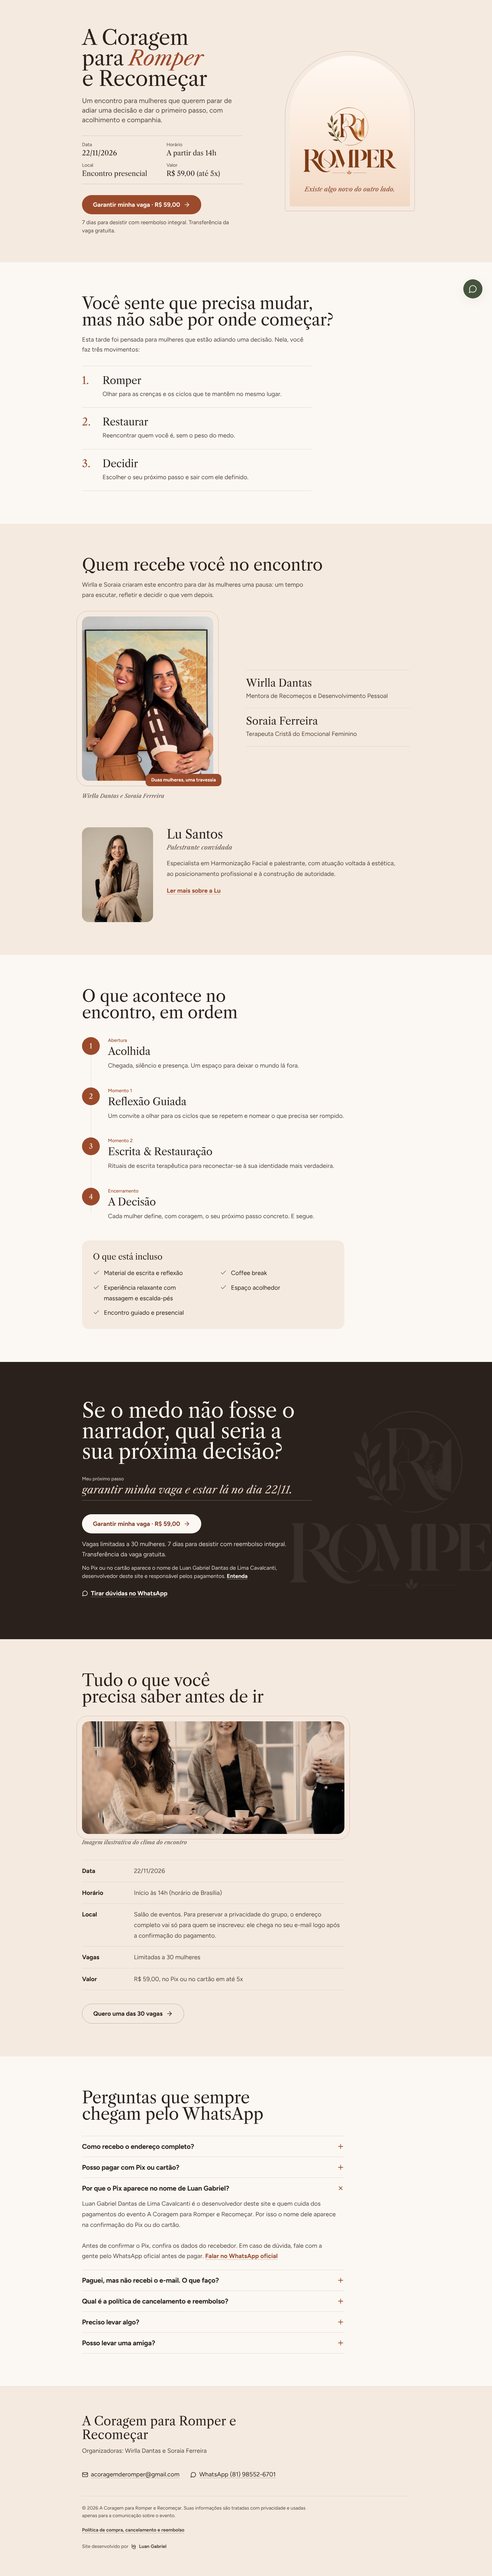
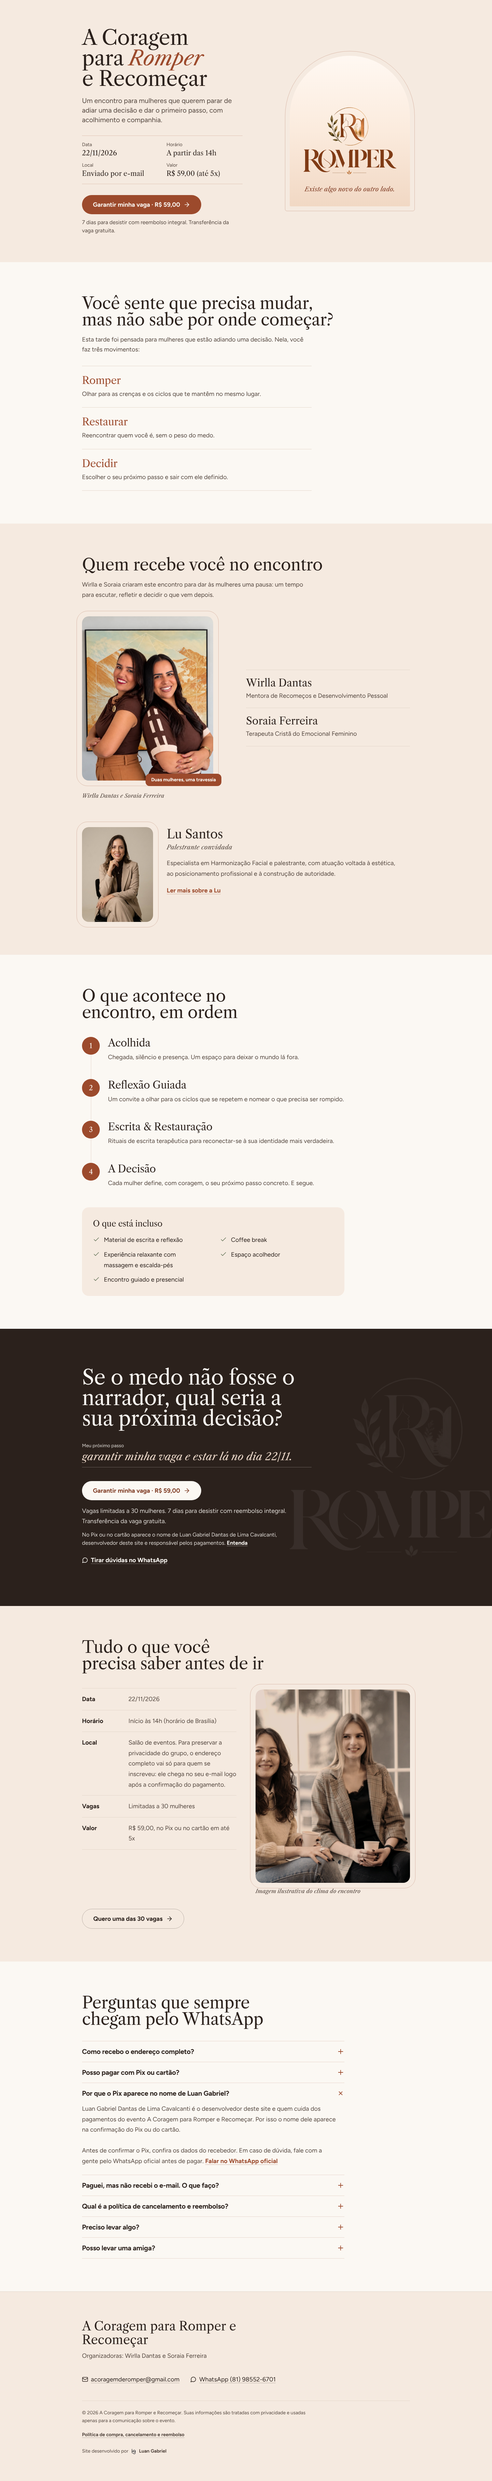
Ajustes da revisão final da landing page
- Remove os rótulos 'Momento 1/2' que conflitavam com a numeração da programação
- Botão flutuante do WhatsApp só aparece depois da abertura, sem cobrir a inscrição
- Local na abertura diz que o endereço vai por e-mail enquanto a cidade não é informada
- Placeholder do formulário com contraste suficiente
- 'Para quem é' sem numeração, para não competir com a programação
- Foto da Lu Santos com a mesma moldura das outras fotos
- Detalhes em duas colunas no desktop

Claude-Session: https://claude.ai/code/session_01J7WFRn7juCVtrvQuFSdBz2

diff --git a/src/sections/Details.tsx b/src/sections/Details.tsx
@@ -16,7 +16,8 @@ export function Details() {
 
   return (
     <Folha id="detalhes" tom="sand" titulo="Tudo o que você precisa saber antes de ir">
-      <figure className="mt-12 max-w-3xl">
+      <div className="mt-12 grid max-w-3xl gap-12 lg:max-w-none lg:grid-cols-[minmax(0,1fr)_minmax(0,1fr)] lg:items-start lg:gap-14">
+      <figure className="lg:order-2 lg:pt-1">
         <div className="moldura relative mx-2 sm:mx-0">
           <div className="tom-barro relative overflow-hidden rounded-[1.25rem]">
             <img
@@ -24,22 +25,22 @@ export function Details() {
               alt="Mulheres conversando com xícaras nas mãos, em clima de acolhimento"
               width={1800}
               height={1202}
-              className="foto-quente aspect-[16/10] w-full object-cover object-[55%_72%] sm:aspect-[21/9] sm:object-[55%_78%]"
+              className="foto-quente aspect-[16/10] w-full object-cover object-[55%_72%] sm:aspect-[21/9] sm:object-[55%_78%] lg:aspect-[4/5] lg:object-[45%_60%]"
               loading="lazy"
             />
           </div>
         </div>
         <figcaption className="mt-3 font-serif text-base italic text-coffee-soft">Imagem ilustrativa do clima do encontro</figcaption>
       </figure>
-
-      <dl className="mt-10 max-w-3xl border-t border-linha">
+      <dl className="border-t border-linha lg:order-1">
         {ficha.map((f) => (
-          <div key={f.rotulo} className="grid gap-1 border-b border-linha py-4 sm:grid-cols-[8rem_minmax(0,1fr)] sm:gap-6">
+          <div key={f.rotulo} className="grid gap-1 border-b border-linha py-4 sm:grid-cols-[7rem_minmax(0,1fr)] sm:gap-6">
             <dt className="font-bold text-coffee">{f.rotulo}</dt>
             <dd className="text-coffee-soft">{f.valor}</dd>
           </div>
         ))}
       </dl>
+      </div>
 
       <div className="mt-10">
         <CheckoutButton variant="secondary" className="w-full sm:w-auto">

diff --git a/src/components/WhatsAppFloat.tsx b/src/components/WhatsAppFloat.tsx
@@ -1,14 +1,33 @@
+import { useEffect, useState } from 'react';
 import { MessageCircle } from 'lucide-react';
 import { eventConfig } from '@/data/eventConfig';
 
+/** Botão flutuante do WhatsApp. Só aparece depois da abertura, para não cobrir o botão de inscrição. */
 export function WhatsAppFloat() {
+  const [visivel, setVisivel] = useState(false);
+
+  useEffect(() => {
+    const atualizar = () => setVisivel(window.scrollY > window.innerHeight * 0.85);
+    atualizar();
+    window.addEventListener('scroll', atualizar, { passive: true });
+    window.addEventListener('resize', atualizar);
+    return () => {
+      window.removeEventListener('scroll', atualizar);
+      window.removeEventListener('resize', atualizar);
+    };
+  }, []);
+
   return (
     <a
       href={eventConfig.whatsappLink}
       target="_blank"
       rel="noopener noreferrer"
       aria-label="Falar no WhatsApp"
-      className="fixed bottom-5 right-5 z-50 flex h-14 w-14 items-center justify-center rounded-full bg-olive-dark text-cream shadow-soft-lg transition-colors duration-200 ease-out hover:bg-coffee sm:bottom-7 sm:right-7"
+      aria-hidden={!visivel}
+      tabIndex={visivel ? 0 : -1}
+      className={`fixed bottom-5 right-5 z-50 flex h-14 w-14 items-center justify-center rounded-full bg-olive-dark text-cream shadow-soft-lg transition-[opacity,transform,background-color] duration-300 ease-out hover:bg-coffee sm:bottom-7 sm:right-7 ${
+        visivel ? 'opacity-100' : 'pointer-events-none translate-y-3 opacity-0'
+      }`}
     >
       <MessageCircle size={26} strokeWidth={1.8} aria-hidden="true" />
     </a>

diff --git a/src/sections/Organizers.tsx b/src/sections/Organizers.tsx
@@ -45,7 +45,8 @@ export function Organizers() {
 
       {/* Palestrante convidada */}
       <article className="mt-16 grid gap-8 sm:mt-20 sm:grid-cols-[minmax(0,13rem)_minmax(0,1fr)] sm:items-start sm:gap-10">
-        <div className="w-full max-w-[13rem] overflow-hidden rounded-[1.25rem]">
+        <div className="moldura relative ml-2 w-full max-w-[13rem] sm:ml-0">
+          <div className="overflow-hidden rounded-[1.25rem]">
           <img
             src="/images/lu-santos.jpg"
             alt="Lu Santos, palestrante convidada do encontro"
@@ -54,6 +55,7 @@ export function Organizers() {
             className="aspect-[3/4] w-full object-cover object-top"
             loading="lazy"
           />
+          </div>
         </div>
         <div className="max-w-2xl">
           <h3 className="text-3xl text-coffee sm:text-4xl">Lu Santos</h3>

diff --git a/src/sections/Identification.tsx b/src/sections/Identification.tsx
@@ -16,13 +16,10 @@ export function Identification() {
 
       <Reveal>
       <ol className="mt-8 max-w-2xl divide-y divide-linha border-y border-linha">
-        {passos.map((p, i) => (
-          <li key={p.titulo} className="grid grid-cols-[2.25rem_minmax(0,1fr)] gap-x-3 py-5 sm:grid-cols-[3rem_minmax(0,1fr)] sm:py-6">
-            <span aria-hidden="true" className="font-serif text-2xl leading-none text-terracota sm:text-3xl">
-              {i + 1}.
-            </span>
+        {passos.map((p) => (
+          <li key={p.titulo} className="py-5 sm:py-6">
             <div>
-              <h3 className="text-2xl text-coffee sm:text-3xl">{p.titulo}</h3>
+              <h3 className="text-2xl text-terracota sm:text-3xl">{p.titulo}</h3>
               <p className="mt-1.5 text-coffee-soft">{p.texto}</p>
             </div>
           </li>

diff --git a/src/components/CheckoutDialog.tsx b/src/components/CheckoutDialog.tsx
@@ -140,7 +140,7 @@ function FormularioInscricao({ onFechar }: { onFechar: () => void }) {
   }
 
   const campoBase =
-    'mt-1.5 w-full rounded-lg border bg-white px-4 py-3 text-base text-coffee placeholder:text-coffee-soft/70 focus:outline-none focus:ring-2';
+    'mt-1.5 w-full rounded-lg border bg-white px-4 py-3 text-base text-coffee placeholder:text-coffee-soft/85 focus:outline-none focus:ring-2';
   const classeCampo = (c: Campo) =>
     `${campoBase} ${erros[c] ? 'border-terracota ring-1 ring-terracota focus:ring-terracota/40' : 'border-coffee/25 focus:border-terracota focus:ring-terracota/25'}`;
   const rotulo = 'block text-base font-bold text-coffee';

diff --git a/src/sections/Schedule.tsx b/src/sections/Schedule.tsx
@@ -36,8 +36,7 @@ export function Schedule() {
               {i + 1}
             </span>
             <Reveal>
-              <p className="text-sm font-medium text-terracota">{m.time}</p>
-              <h3 className="mt-1 text-2xl text-coffee sm:text-3xl">{m.title}</h3>
+              <h3 className="text-2xl text-coffee sm:text-3xl">{m.title}</h3>
               <p className="mt-2 max-w-[60ch] text-coffee-soft">{m.desc}</p>
             </Reveal>
           </li>

diff --git a/src/sections/Hero.tsx b/src/sections/Hero.tsx
@@ -11,7 +11,7 @@ export function Hero() {
   const fatos = [
     { rotulo: 'Data', valor: eventConfig.date },
     { rotulo: 'Horário', valor: 'A partir das 14h' },
-    { rotulo: 'Local', valor: eventConfig.cidade || 'Encontro presencial' },
+    { rotulo: 'Local', valor: eventConfig.cidade || 'Enviado por e-mail' },
     { rotulo: 'Valor', valor: `${eventConfig.price} (até 5x)` },
   ];
 
